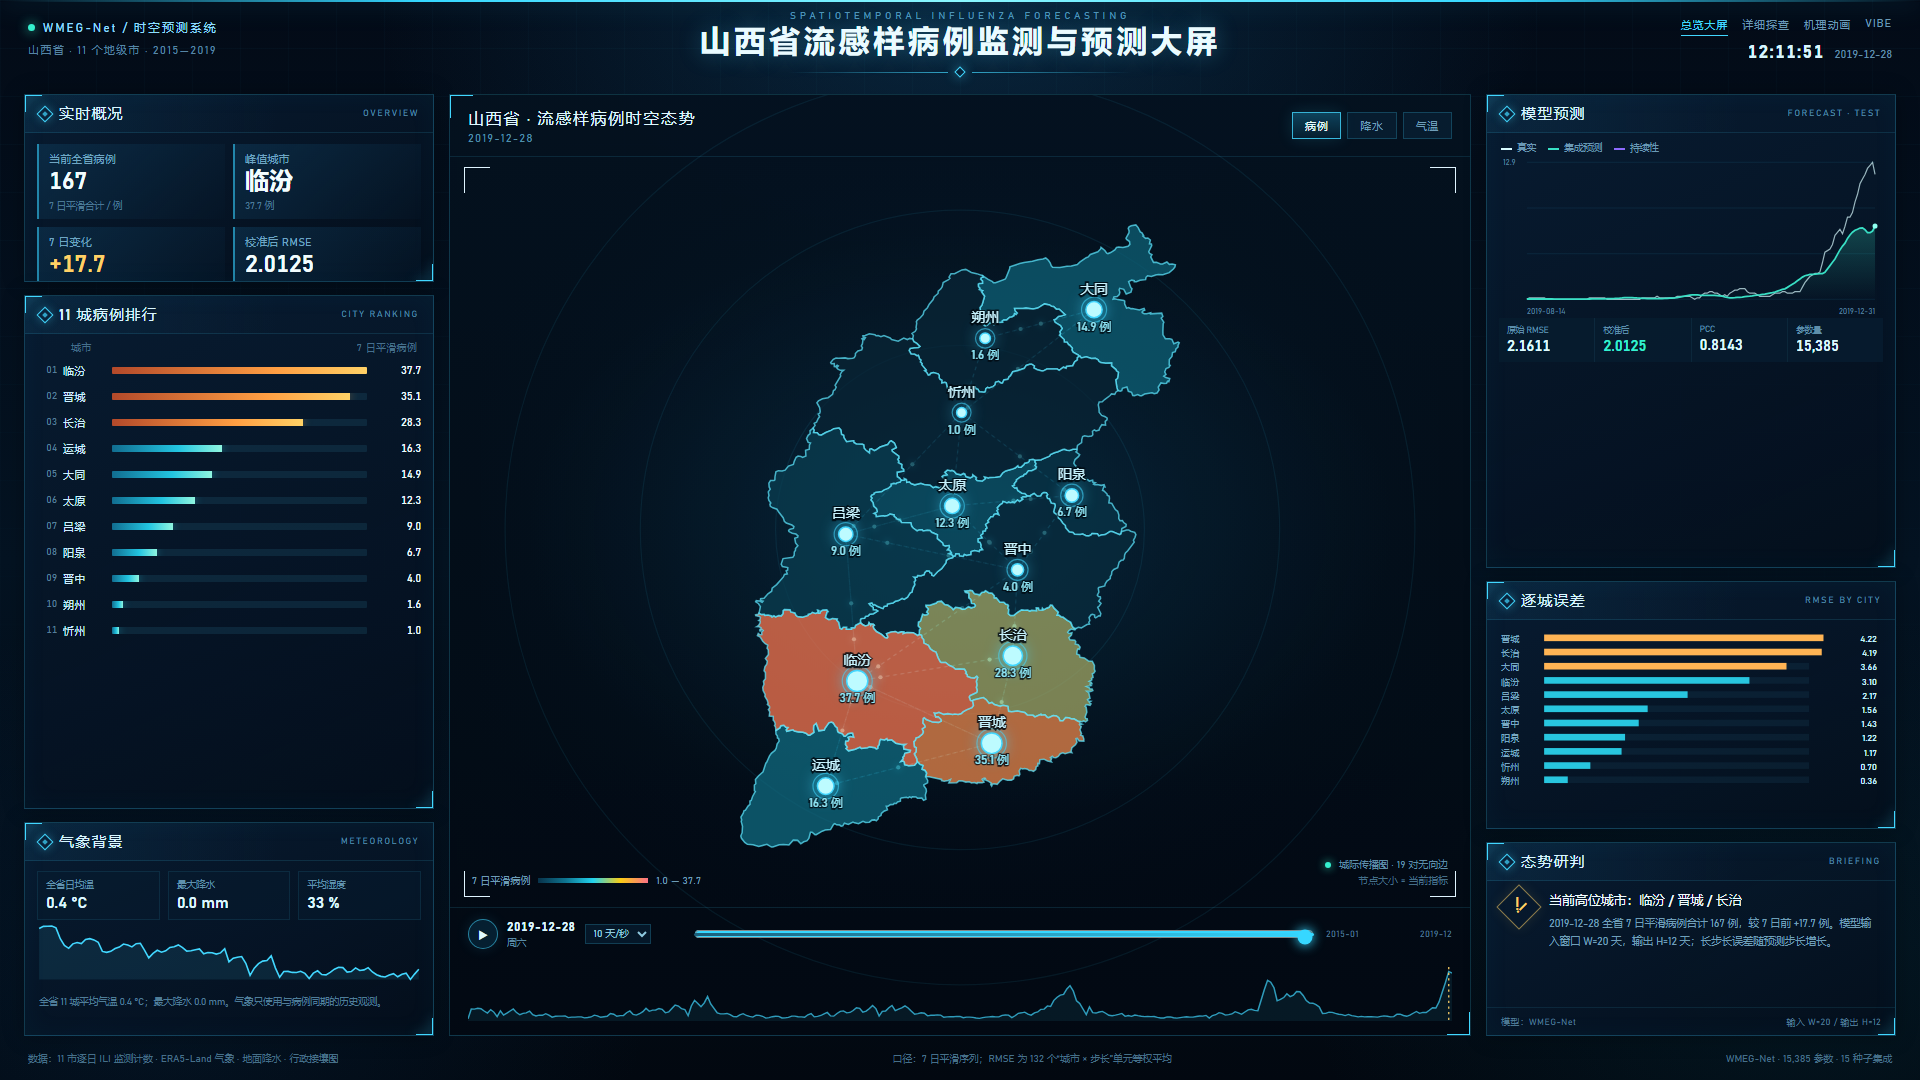
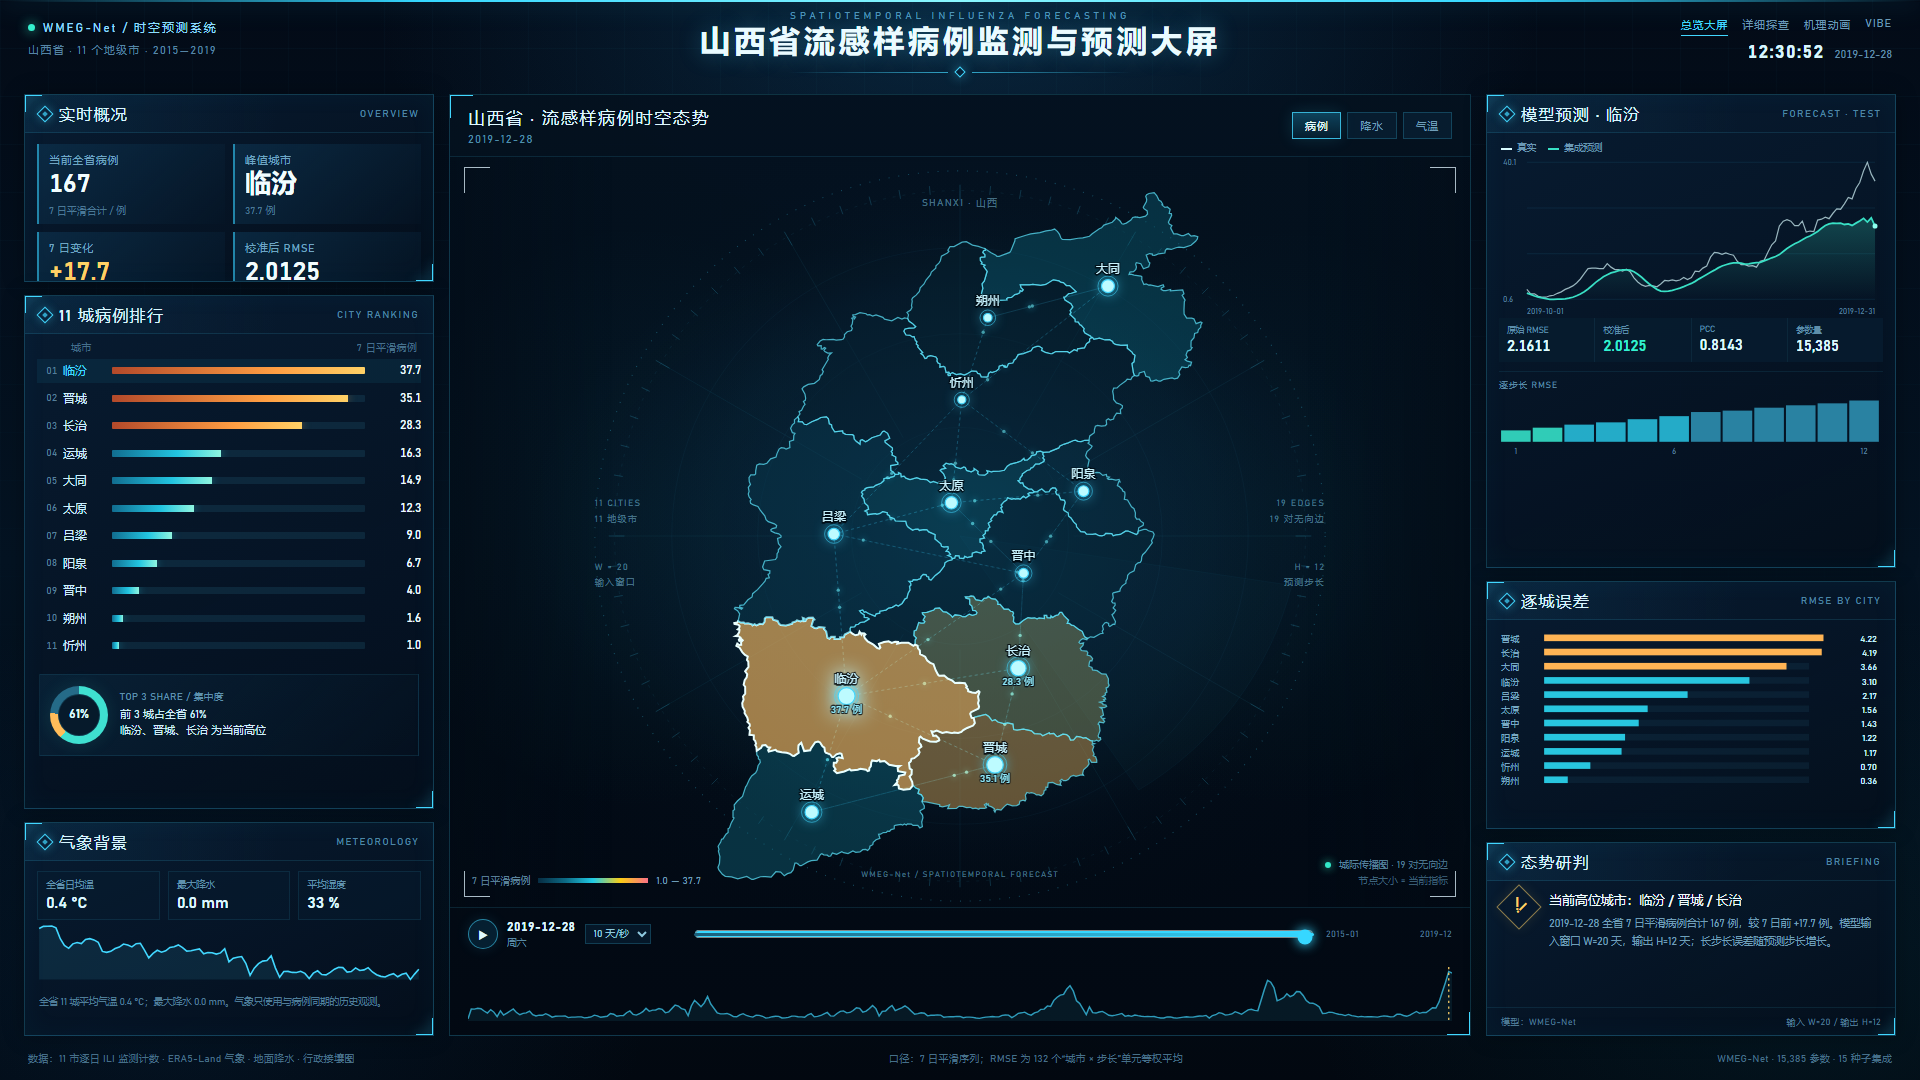
style: circular HUD backdrop and larger Shanxi map

diff --git a/assets/screen.js b/assets/screen.js
@@ -68,6 +68,11 @@ function buildMap(){
   grad.appendChild(svgEl('stop',{offset:'0%','stop-color':'#0a3f5b','stop-opacity':'.38'}));
   grad.appendChild(svgEl('stop',{offset:'100%','stop-color':'#03101d','stop-opacity':'0'}));
   defs.appendChild(grad);
+  var disc=svgEl('radialGradient',{id:'discGrad',cx:'50%',cy:'50%',r:'50%'});
+  disc.appendChild(svgEl('stop',{offset:'0%','stop-color':'#0b354e','stop-opacity':'.38'}));
+  disc.appendChild(svgEl('stop',{offset:'68%','stop-color':'#082539','stop-opacity':'.24'}));
+  disc.appendChild(svgEl('stop',{offset:'100%','stop-color':'#03101d','stop-opacity':'0'}));
+  defs.appendChild(disc);
   var glow=svgEl('filter',{id:'nodeGlow',x:'-80%',y:'-80%',width:'260%',height:'260%'});
   var blur=svgEl('feGaussianBlur',{stdDeviation:'3',result:'b'});
   var merge=svgEl('feMerge');merge.appendChild(svgEl('feMergeNode',{in:'b'}));merge.appendChild(svgEl('feMergeNode',{in:'SourceGraphic'}));
@@ -76,6 +81,8 @@ function buildMap(){
   svg.appendChild(svgEl('rect',{x:0,y:0,width:900,height:760,fill:'url(#mapBg)'}));
   // circular HUD: rings, ticks, rotating sweep, cardinal annotations
   var gHud=svgEl('g',{class:'hud-rings'});
+  gHud.appendChild(svgEl('circle',{cx:450,cy:380,r:370,fill:'url(#discGrad)'}));
+  gHud.appendChild(svgEl('circle',{cx:450,cy:380,r:370,fill:'none',stroke:'rgba(66,215,255,.30)','stroke-width':'1.1','stroke-dasharray':'1 9'}));
   [110,205,292,350].forEach(function(r,idx){gHud.appendChild(svgEl('circle',{cx:450,cy:380,r:r,class:'map-ring',opacity:idx===3?'.95':'.55',stroke:idx===3?'rgba(66,215,255,.40)':'rgba(66,215,255,.075)','stroke-width':idx===3?'1.2':'0.8','stroke-dasharray':idx===3?'3 7':'none'}))});
   var spokes=svgEl('g',{stroke:'rgba(66,215,255,.09)','stroke-width':'.7'});
   for(var si=0;si<12;si++){var sa=si/12*Math.PI*2;var sr1=115,sr2=350;spokes.appendChild(svgEl('line',{x1:(450+Math.cos(sa)*sr1).toFixed(1),y1:(380+Math.sin(sa)*sr1).toFixed(1),x2:(450+Math.cos(sa)*sr2).toFixed(1),y2:(380+Math.sin(sa)*sr2).toFixed(1)}))}
